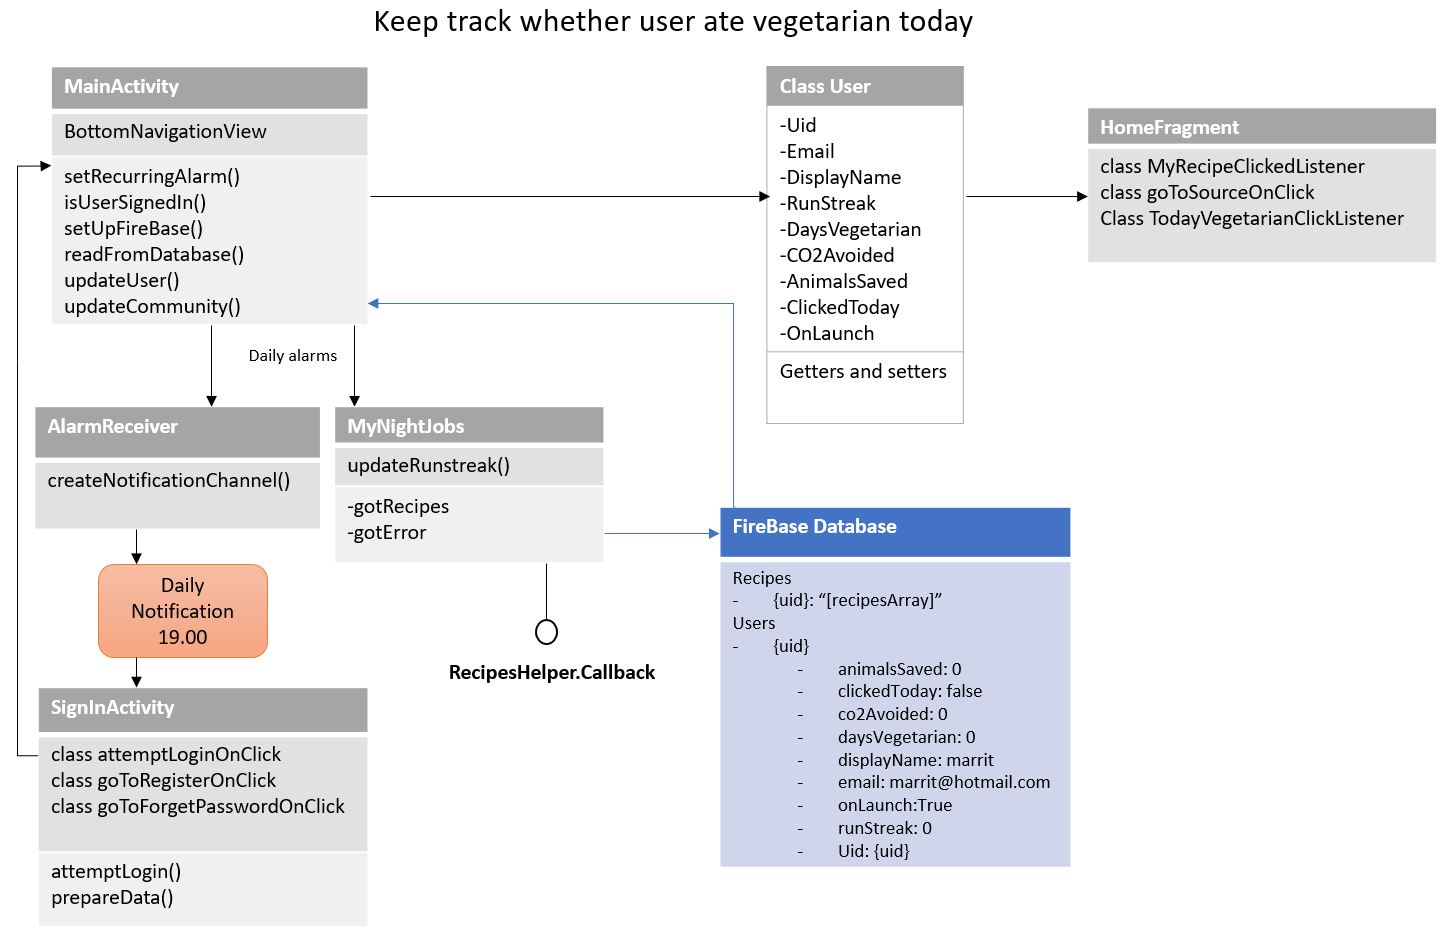
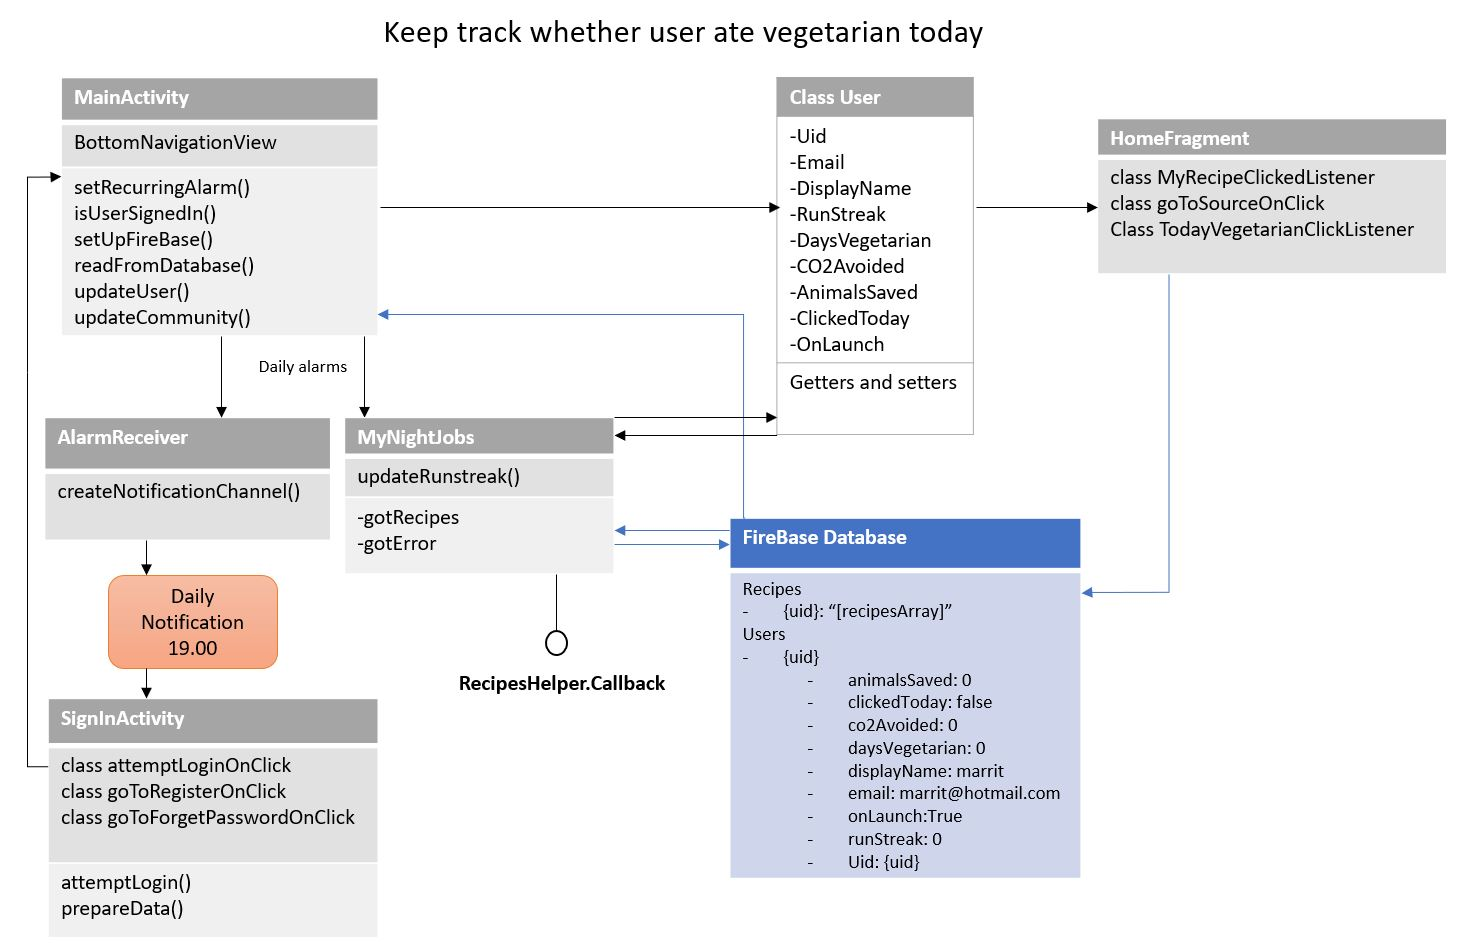
update architecture vegetarian today and small change HomeFragment

diff --git a/app/src/main/java/marrit/marritleenstra_pset62/HomeFragment.java b/app/src/main/java/marrit/marritleenstra_pset62/HomeFragment.java
@@ -145,13 +145,15 @@ public class HomeFragment extends Fragment {
             double co2 = mUser.getCO2Avoided();
             double animals = mUser.getAnimalsSaved();
 
+            // hide question
+            mQuestion.setVisibility(View.INVISIBLE);
+            mYesButton.setVisibility(View.INVISIBLE);
+            mNoButton.setVisibility(View.INVISIBLE);
+
             // update database based on button clicked
             if (view == mYesButton) {
 
-                // hide question
-                mQuestion.setVisibility(View.INVISIBLE);
-                mYesButton.setVisibility(View.INVISIBLE);
-                mNoButton.setVisibility(View.INVISIBLE);
+                // display clickedYes message
                 mClickedYes.setVisibility(View.VISIBLE);
 
                 // update user's values
@@ -169,10 +171,7 @@ public class HomeFragment extends Fragment {
             }
             else if (view == mNoButton) {
 
-                // hide question
-                mQuestion.setVisibility(View.INVISIBLE);
-                mYesButton.setVisibility(View.INVISIBLE);
-                mNoButton.setVisibility(View.INVISIBLE);
+                // display clickedNO message
                 mClickedNo.setVisibility(View.VISIBLE);
 
                 mDatabase.child("users").child(mUID).child("clickedToday").setValue(true);
